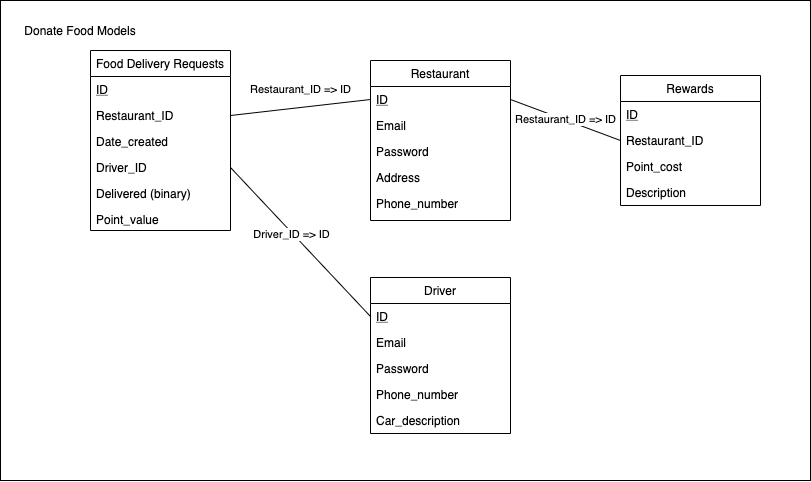
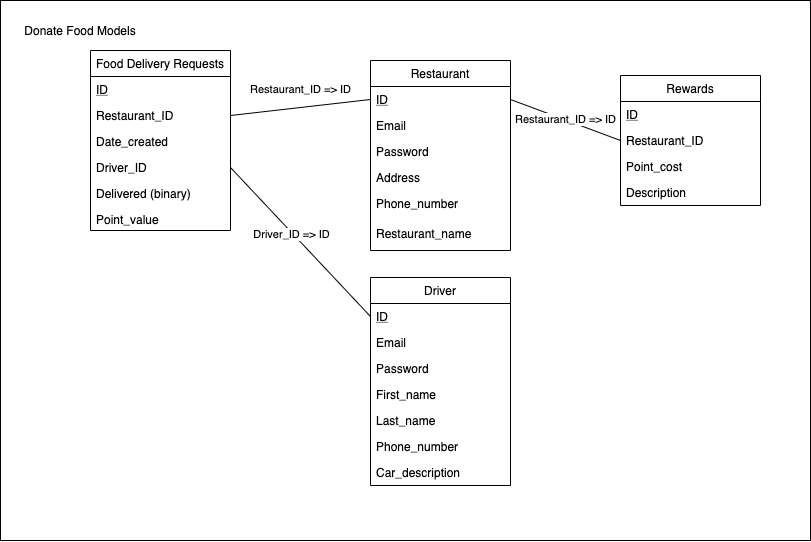
modified models and added gitignore

diff --git a/README.md b/README.md
@@ -127,6 +127,10 @@ Restaurant's Side
 ![DB_models](DB_models.png)
 ### Networking
 - Login Screen
-	- (POST)
+	- (POST) User Authentication
+- Register Screen
+	- (POST) Create new user/restaurant
+- Restaurant Home Screen
+	- (GET) Restaurant Data (ie Restaurant Name)
 - [Create basic snippets for each Parse network request]
 - [OPTIONAL: List endpoints if using existing API such as Yelp]
